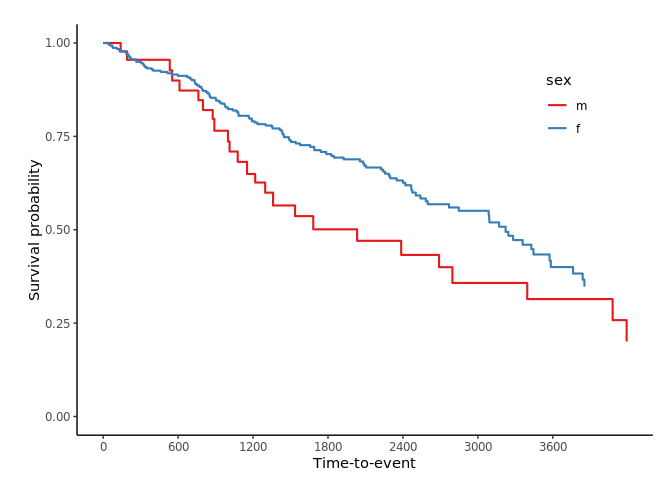
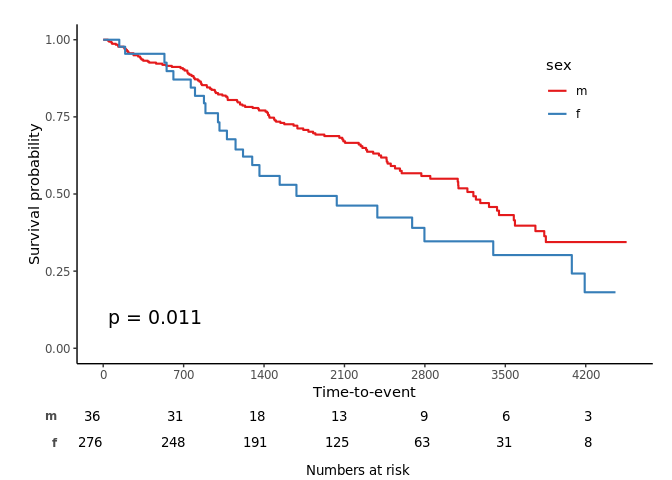
0.4.0 update

diff --git a/README.md b/README.md
@@ -1,12 +1,24 @@
 jskm
 ================
 
-Kaplan-Meier Plot with 'ggplot2': 'survfit' and 'svykm' objects from 'survival' and 'survey' packages.
+Kaplan-Meier Plot with ‘ggplot2’: ‘survfit’ and ‘svykm’ objects from
+‘survival’ and ‘survey’ packages.
 
-[![Build Status](https://travis-ci.org/jinseob2kim/jskm.svg?branch=master)](https://travis-ci.org/jinseob2kim/jskm) [![AppVeyor build status](https://ci.appveyor.com/api/projects/status/github/jinseob2kim/jskm?branch=master&svg=true)](https://ci.appveyor.com/project/jinseob2kim/jskm) [![CRAN\_Status\_Badge](https://www.r-pkg.org/badges/version/jskm)](https://cran.r-project.org/package=jskm) [![CRAN\_Download\_Badge](https://cranlogs.r-pkg.org/badges/jskm)](https://CRAN.R-project.org/package=jskm) [![codecov](https://codecov.io/github/jinseob2kim/jskm/branch/master/graphs/badge.svg)](https://codecov.io/github/jinseob2kim/jskm) [![GitHub issues](https://img.shields.io/github/issues/jinseob2kim/jskm.svg)](https://github.com/jinseob2kim/jskm/issues) [![GitHub stars](https://img.shields.io/github/stars/jinseob2kim/jskm.svg)](https://github.com/jinseob2kim/jskm/stargazers) [![GitHub license](https://img.shields.io/github/license/jinseob2kim/jskm.svg)](https://github.com/jinseob2kim/jskm/blob/master/LICENSE)
+[![Build
+Status](https://travis-ci.org/jinseob2kim/jskm.svg?branch=master)](https://travis-ci.org/jinseob2kim/jskm)
+[![AppVeyor build
+status](https://ci.appveyor.com/api/projects/status/github/jinseob2kim/jskm?branch=master&svg=true)](https://ci.appveyor.com/project/jinseob2kim/jskm)
+[![CRAN\_Status\_Badge](https://www.r-pkg.org/badges/version/jskm)](https://cran.r-project.org/package=jskm)
+[![CRAN\_Download\_Badge](https://cranlogs.r-pkg.org/badges/jskm)](https://CRAN.R-project.org/package=jskm)
+[![codecov](https://codecov.io/github/jinseob2kim/jskm/branch/master/graphs/badge.svg)](https://codecov.io/github/jinseob2kim/jskm)
+[![GitHub
+issues](https://img.shields.io/github/issues/jinseob2kim/jskm.svg)](https://github.com/jinseob2kim/jskm/issues)
+[![GitHub
+stars](https://img.shields.io/github/stars/jinseob2kim/jskm.svg)](https://github.com/jinseob2kim/jskm/stargazers)
+[![GitHub
+license](https://img.shields.io/github/license/jinseob2kim/jskm.svg)](https://github.com/jinseob2kim/jskm/blob/master/LICENSE)
 
-Install
--------
+## Install
 
 ``` r
 install.packages("jskm")
@@ -18,8 +30,7 @@ remotes::install_github("jinseob2kim/jskm")
 library(jskm)
 ```
 
-Example
--------
+## Example
 
 ### Survival probability
 
@@ -33,7 +44,7 @@ fit <- survfit(Surv(time,status)~rx, data=colon)
 jskm(fit)
 ```
 
-![](man/figures/README-unnamed-chunk-1-1.png)
+![](man/figures/README-unnamed-chunk-1-1.png)<!-- -->
 
 ``` r
 jskm(fit, table = T, pval = T, label.nrisk = "No. at risk", size.label.nrisk = 8, 
@@ -41,7 +52,7 @@ jskm(fit, table = T, pval = T, label.nrisk = "No. at risk", size.label.nrisk = 8
      marks = F, timeby = 365, xlims = c(0, 3000), ylims = c(0.25, 1))
 ```
 
-![](man/figures/README-unnamed-chunk-1-2.png)
+![](man/figures/README-unnamed-chunk-1-2.png)<!-- -->
 
 ### Cumulative hazard: 1- Survival probability
 
@@ -49,7 +60,15 @@ jskm(fit, table = T, pval = T, label.nrisk = "No. at risk", size.label.nrisk = 8
 jskm(fit, ci = T, cumhaz = T,  mark = F, ylab = "Cumulative hazard (%)", surv.scale = "percent", pval =T, pval.size = 6, pval.coord = c(300, 0.7))
 ```
 
-![](man/figures/README-unnamed-chunk-2-1.png)
+![](man/figures/README-unnamed-chunk-2-1.png)<!-- -->
+
+### Landmark analysis
+
+``` r
+jskm(fit, mark = F,  surv.scale = "percent", pval =T, table = T, cut.landmark = 500)
+```
+
+![](man/figures/README-unnamed-chunk-3-1.png)<!-- -->
 
 ### Weighted Kaplan-Meier plot - `svykm.object` in **survey** package
 
@@ -68,31 +87,38 @@ s2 <-svykm(Surv(time,status>0) ~ sex, design = dpbc)
 svyjskm(s1)
 ```
 
-![](man/figures/README-unnamed-chunk-3-1.png)
+![](man/figures/README-unnamed-chunk-4-1.png)<!-- -->
 
 ``` r
 svyjskm(s2, pval = T,  table = T, design = dpbc)
 ```
 
-![](man/figures/README-unnamed-chunk-3-2.png)
+![](man/figures/README-unnamed-chunk-4-2.png)<!-- -->
 
 ``` r
 svyjskm(s2, cumhaz = T, ylab = "Cumulative (%)", surv.scale = "percent", pval = T, design = dpbc, pval.coord = c(300, 0.7)) 
 ```
 
-![](man/figures/README-unnamed-chunk-3-3.png)
+![](man/figures/README-unnamed-chunk-4-3.png)<!-- -->
 
-If you want to get **confidence interval**, you should apply `se = T` option to `svykm` object.
+If you want to get **confidence interval**, you should apply `se = T`
+option to `svykm` object.
 
 ``` r
 s3 <- svykm(Surv(time,status>0) ~ sex, design=dpbc, se = T)
 svyjskm(s3)
 ```
 
-![](man/figures/README-unnamed-chunk-4-1.png)
+![](man/figures/README-unnamed-chunk-5-1.png)<!-- -->
 
 ``` r
 svyjskm(s3, ci = F)
 ```
 
-![](man/figures/README-unnamed-chunk-4-2.png)
+![](man/figures/README-unnamed-chunk-5-2.png)<!-- -->
+
+``` r
+svyjskm(s3, ci = F,  surv.scale = "percent", pval =T, table = T, cut.landmark = 1000)
+```
+
+![](man/figures/README-unnamed-chunk-5-3.png)<!-- -->

diff --git a/NEWS.md b/NEWS.md
@@ -1,6 +1,6 @@
 # jskm 0.4.0
 
-* Add landmark analysis: **cut.landmark** option to `jskm`.
+* Add landmark analysis: **cut.landmark** option.
 
 # jskm 0.3.9
 
